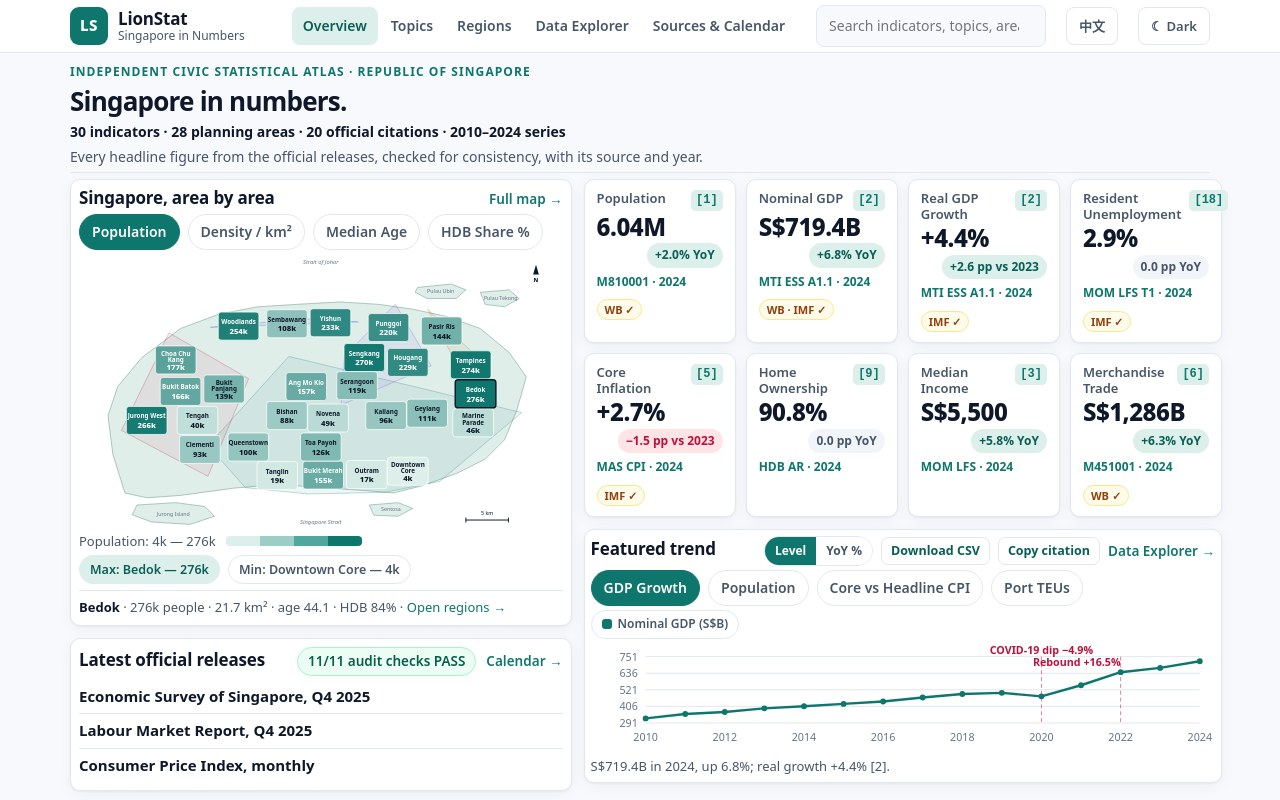
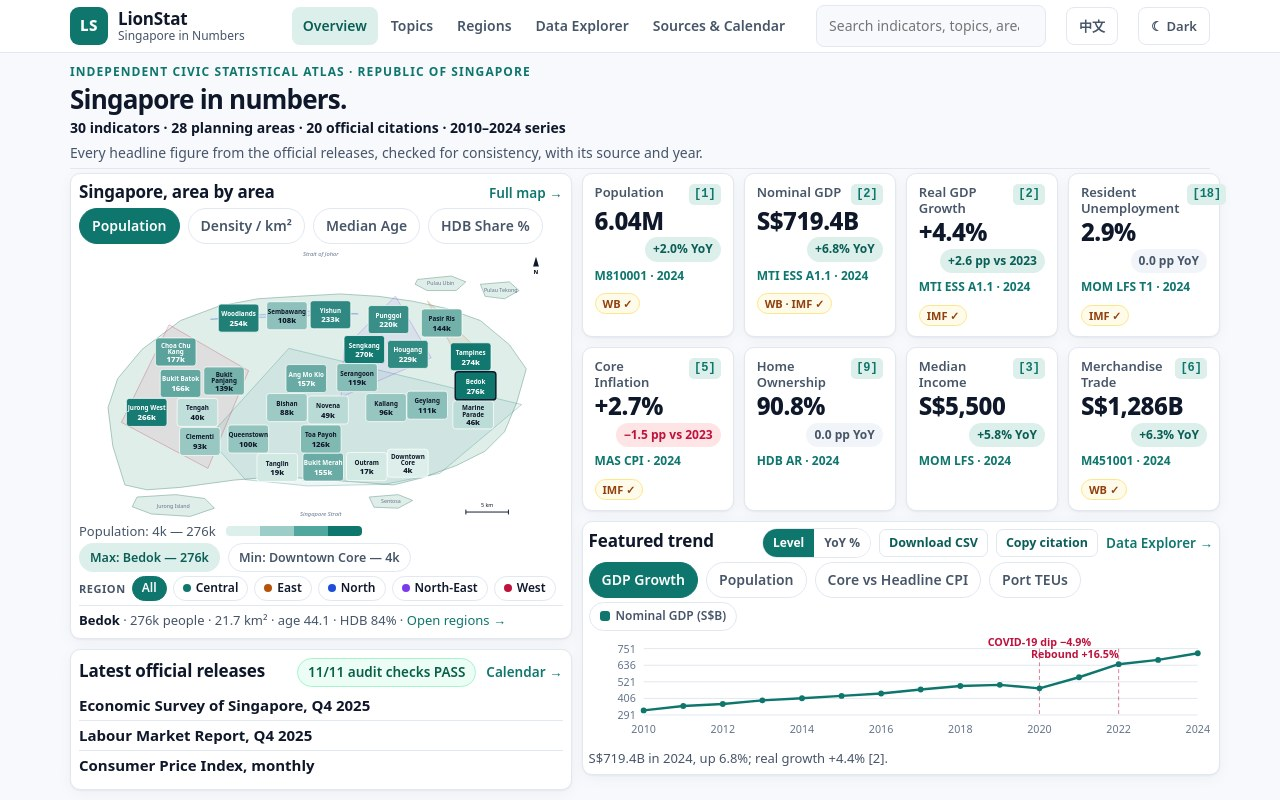
LionStat V6 — 5-region filter strip on cover map, mobile shot is the Overview, 2-col KPIs on phones

diff --git a/app/style.css b/app/style.css
@@ -252,7 +252,7 @@ button.legend-item:hover { border-color: var(--jade); }
 .release-list span { font-size: 13px; color: var(--muted); }
 
 /* ---------- Map ---------- */
-.map-controls { display: flex; flex-wrap: wrap; gap: 8px; margin-bottom: 6px; }
+.map-controls { display: flex; flex-wrap: wrap; gap: 8px; margin-bottom: 4px; }
 .metric-btn {
   border: 1px solid var(--border); background: var(--surface);
   border-radius: 999px; padding: 6px 12px; font-size: 14px; font-weight: 600; color: var(--muted);
@@ -266,7 +266,7 @@ button.legend-item:hover { border-color: var(--jade); }
 .map-tile-name { font-size: 13px; font-weight: 700; text-anchor: middle; font-family: inherit; }
 .map-tile-value { font-size: 16px; font-weight: 800; text-anchor: middle; font-family: inherit; }
 .map-tile-sub { font-size: 10px; text-anchor: middle; font-family: inherit; opacity: 0.75; }
-.map-legend { display: flex; align-items: center; gap: 10px; flex-wrap: wrap; margin-top: 4px; font-size: 13px; color: var(--muted); }
+.map-legend { display: flex; align-items: center; gap: 10px; flex-wrap: wrap; margin-top: 2px; font-size: 13px; color: var(--muted); }
 .map-ramp { display: inline-flex; }
 .map-ramp span { width: 34px; height: 10px; display: block; }
 .map-ramp span:first-child { border-radius: 4px 0 0 4px; }
@@ -478,14 +478,14 @@ html[data-theme="dark"] .region-zone { fill-opacity: 0.12; }
 .topic-demography .panel-note { margin-top: 10px; }
 
 /* ---------- V2: command centre, geographic map, dark theme ---------- */
-.masthead { padding: 0 0 4px; border-bottom: 1px solid var(--border); margin-bottom: 6px; }
-.masthead .kicker { margin-bottom: 4px; }
-.masthead h1 { font-size: 26px; letter-spacing: -0.03em; margin-bottom: 4px; }
+.masthead { padding: 0 0 4px; border-bottom: 1px solid var(--border); margin-bottom: 4px; }
+.masthead .kicker { margin-bottom: 2px; }
+.masthead h1 { font-size: 26px; letter-spacing: -0.03em; margin-bottom: 2px; }
 .masthead-facts { font-size: 14px; font-weight: 700; margin: 0 0 4px; }
 .masthead-sub { font-size: 14px; color: var(--muted); margin: 0; max-width: 780px; }
 
-.command-grid { display: grid; grid-template-columns: 44% 56%; gap: 12px; align-items: start; margin-bottom: 30px; }
-.cc-left, .cc-right { display: flex; flex-direction: column; gap: 12px; min-width: 0; }
+.command-grid { display: grid; grid-template-columns: 44% 56%; gap: 10px; align-items: start; margin-bottom: 30px; }
+.cc-left, .cc-right { display: flex; flex-direction: column; gap: 10px; min-width: 0; }
 .cc-map-panel, .cc-releases { padding: 8px; }
 .featured-panel { padding: 8px; }
 .cc-panel-head { display: flex; justify-content: space-between; align-items: baseline; gap: 10px; margin-bottom: 4px; }
@@ -499,10 +499,10 @@ html[data-theme="dark"] .region-zone { fill-opacity: 0.12; }
 .btn-mini:hover { border-color: var(--jade); color: var(--ink); }
 .detail-actions { display: flex; gap: 8px; flex-wrap: wrap; margin-top: 12px; }
 .copy-note { display: block; font-size: 12.5px; color: var(--muted); margin-top: 6px; min-height: 0; }
-.cc-selected { margin-top: 6px; border-top: 1px solid var(--border); padding-top: 6px; font-size: 13px; color: var(--muted); white-space: nowrap; overflow: hidden; text-overflow: ellipsis; }
+.cc-selected { margin-top: 4px; border-top: 1px solid var(--border); padding-top: 4px; font-size: 13px; color: var(--muted); white-space: nowrap; overflow: hidden; text-overflow: ellipsis; }
 .cc-selected strong { color: var(--ink); }
 .release-list.compact { font-size: 14px; }
-.release-list.compact li { padding: 5px 0; white-space: nowrap; overflow: hidden; text-overflow: ellipsis; }
+.release-list.compact li { padding: 3px 0; white-space: nowrap; overflow: hidden; text-overflow: ellipsis; }
 .cc-releases .release-list { margin-bottom: 0; }
 .release-list.compact strong { display: inline; }
 .release-list.compact span { display: none; }
@@ -535,13 +535,22 @@ html[data-theme="dark"] .region-zone { fill-opacity: 0.12; }
 .map-scale-label { font-size: 11px; fill: var(--ink); font-family: inherit; }
 .map-compass polygon { fill: var(--ink); }
 .map-scale line { stroke: var(--ink); }
-.map-hilo { display: flex; gap: 8px; flex-wrap: wrap; margin-top: 4px; }
+.map-hilo { display: flex; gap: 8px; flex-wrap: wrap; margin-top: 2px; }
 .hilo-chip { font-size: 12.5px; font-weight: 600; border-radius: 999px; padding: 4px 10px; border: 1px solid var(--border); color: var(--muted); }
 .hilo-high { color: var(--jade-dark); background: var(--jade-pale); border-color: transparent; }
 
 /* The overview map hides the region chips (they are on #/regions) so the
    command centre fits 1280×800. */
 .cc-map-panel .region-chips { display: none; }
+/* V6: 2-level Region -> Area filter strip on the cover map. Compact pills
+   (colour dot + short name); the active pill mirrors .metric-btn.active. */
+.region-filter { display: flex; flex-wrap: wrap; align-items: center; gap: 6px; margin-top: 4px; }
+.region-filter-label { font-size: 11px; font-weight: 700; text-transform: uppercase; letter-spacing: 0.05em; color: var(--muted); }
+.region-pill-btn { display: inline-flex; align-items: center; gap: 5px; padding: 2px 9px; font-size: 12px; font-weight: 600; color: var(--ink); background: var(--surface-muted); border: 1px solid var(--border); border-radius: 999px; cursor: pointer; white-space: nowrap; }
+.region-pill-btn:hover { border-color: var(--jade); }
+.region-pill-btn.active { background: var(--jade); border-color: var(--jade); color: #FFFFFF; }
+.region-pill-btn.active .region-dot { outline: 1px solid #FFFFFF; }
+.region-pill-btn .region-dot { width: 8px; height: 8px; }
 
 /* Theme toggle in the header. */
 .theme-btn { border: 1px solid var(--border); background: var(--surface); border-radius: 8px; padding: 8px 12px; font-weight: 600; font-size: 13px; color: var(--muted); flex: none; white-space: nowrap; }
@@ -583,6 +592,13 @@ html[data-theme="dark"] .landmass { fill: #12312d; stroke: #2dd4bf; }
   .regions-grid { grid-template-columns: minmax(0, 1fr); }
   .topic-demography-grid { grid-template-columns: minmax(0, 1fr); }
   .command-grid { grid-template-columns: minmax(0, 1fr); }
+  /* V6: flatten the left/right wrappers so the four panels can be
+     re-ordered on narrow screens (map, KPIs, releases, featured). */
+  .cc-left, .cc-right { display: contents; }
+  .cc-map-panel { order: 1; }
+  .kpi-grid-compact { order: 2; }
+  .cc-releases { order: 3; }
+  .featured-panel { order: 4; }
   .area-detail { position: static; }
   .split { grid-template-columns: 1fr; }
   .search-box input { width: 180px; }
@@ -616,6 +632,18 @@ html[data-theme="dark"] .landmass { fill: #12312d; stroke: #2dd4bf; }
   .menu-btn { padding: 6px 10px; font-size: 13px; }
   .hero-blurb { font-size: 16px; }
   .kpi-grid, .topic-grid { grid-template-columns: 1fr; }
+  /* V6: the compact overview grid keeps 2 columns on phones (this rule
+     re-asserts the 2-col layout after the 1fr rule above). */
+  .kpi-grid-compact { grid-template-columns: repeat(2, minmax(0, 1fr)); }
+  .kpi-grid-compact .kpi-value { font-size: 26px; }
+  .masthead-sub { display: none; }
+  .region-filter-label { display: none; }
+  .map-controls .metric-btn { padding: 4px 8px; font-size: 12px; }
+  /* V6: on phones the header search drops to a second row and eats ~56px;
+     hide it (navigation stays in the Menu; desktop search is untouched) so
+     the map + first KPI row reach the fold. */
+  .search-box { display: none; }
+  .map-controls { gap: 6px; }
   .kpi-value { font-size: 30px; }
   .section-head h2 { font-size: 22px; }
   .compare-row { grid-template-columns: 1fr; gap: 4px; }

diff --git a/app/charts.js b/app/charts.js
@@ -236,6 +236,11 @@ export function renderRegionMap(container, areas, regions, selectedId, metric, o
     : metric === 'density' ? 'Density / km²'
     : metric === 'medianAge' ? 'Median age'
     : 'HDB share %';
+  // V6: options.region filters the map to one planning region — tiles and
+  // zone hulls outside it dim, and Max/Min read within the region (the
+  // colour ramp stays global so colours stay comparable across regions).
+  const regionFilter = options.region || null;
+  const pool = regionFilter ? areas.filter((a) => a.region === regionFilter) : areas;
   const values = areas.map(metricOf);
   const lo = Math.min(...values);
   const hi = Math.max(...values);
@@ -303,7 +308,8 @@ export function renderRegionMap(container, areas, regions, selectedId, metric, o
       const d = Math.hypot(dx, dy) || 1;
       return `${(cx + dx * 1.25 + (dx / d) * 34).toFixed(1)},${(cy + dy * 1.25 + (dy / d) * 34).toFixed(1)}`;
     }).join(' ');
-    zones += `<polygon points="${expanded}" class="region-zone" style="fill:${r.color};stroke:${r.color}"><title>${esc(r.name)}</title></polygon>`;
+    const zoneDim = regionFilter && r.id !== regionFilter;
+    zones += `<polygon points="${expanded}" class="region-zone" style="fill:${r.color};stroke:${r.color}" opacity="${zoneDim ? 0.15 : 1}"><title>${esc(r.name)}</title></polygon>`;
   });
 
   let tiles = '';
@@ -317,7 +323,8 @@ export function renderRegionMap(container, areas, regions, selectedId, metric, o
     const nameText = lines
       .map((ln, i) => `<text x="${a.x}" y="${y + (two ? 20 + i * 13 : 25)}" class="map-tile-name" fill="${textOn(t)}">${esc(ln)}</text>`)
       .join('');
-    tiles += `<g class="map-tile${sel ? ' selected' : ''}" data-area="${esc(a.id)}" tabindex="0" role="button" aria-label="${esc(a.name)}: ${esc(metricLabel)} ${esc(valText(a))}">
+    const dimmed = regionFilter && a.region !== regionFilter;
+    tiles += `<g class="map-tile${sel ? ' selected' : ''}" data-area="${esc(a.id)}" tabindex="0" role="button" aria-label="${esc(a.name)}: ${esc(metricLabel)} ${esc(valText(a))}" opacity="${dimmed ? 0.22 : 1}">
       <rect x="${x}" y="${y}" width="${TILE_W}" height="${TILE_H}" rx="6" fill="${ramp(t)}" stroke="${sel ? '#0F172A' : '#FFFFFF'}" stroke-width="${sel ? 3 : 1.5}"/>
       ${nameText}
       <text x="${a.x}" y="${y + (two ? 49 : 45)}" class="map-tile-value" fill="${textOn(t)}">${esc(valText(a))}</text>
@@ -326,8 +333,8 @@ export function renderRegionMap(container, areas, regions, selectedId, metric, o
   const regionChips = regions
     .map((r) => `<span class="region-chip"><span class="legend-swatch" style="background:${r.color}"></span>${esc(r.name)}</span>`)
     .join('');
-  const highest = areas.reduce((b, a) => (metricOf(a) > metricOf(b) ? a : b), areas[0]);
-  const lowest = areas.reduce((b, a) => (metricOf(a) < metricOf(b) ? a : b), areas[0]);
+  const highest = pool.reduce((b, a) => (metricOf(a) > metricOf(b) ? a : b), pool[0]);
+  const lowest = pool.reduce((b, a) => (metricOf(a) < metricOf(b) ? a : b), pool[0]);
   container.innerHTML = `
     <div class="chart-wrap map-wrap"><svg viewBox="0 30 1000 560" role="img" aria-label="Geographic map of Singapore planning areas">${coastline}${zones}${tiles}</svg></div>
     <div class="map-legend"><span class="map-legend-label">${esc(metricLabel)}: ${esc(metric === 'population' ? `${(lo / 1000).toFixed(0)}k` : String(lo))} — ${esc(metric === 'population' ? `${(hi / 1000).toFixed(0)}k` : String(hi))}</span><span class="map-ramp"><span style="background:#DCEFEA"></span><span style="background:#9CCDC6"></span><span style="background:#4FA79E"></span><span style="background:#0F766E"></span></span></div>

diff --git a/app/views/home.js b/app/views/home.js
@@ -86,6 +86,15 @@ export function render() {
           ${MAP_METRICS.map((m, i) => `<button type="button" class="metric-btn${i === 0 ? ' active' : ''}" data-metric="${m.id}">${t(m.key)}</button>`).join('')}
         </div>
         <div id="cc-map"></div>
+        <div class="region-filter" role="group" aria-label="Filter map by region">
+          <span class="region-filter-label">${t('ov.map.region')}</span>
+          <button type="button" class="region-pill-btn active" data-region="">${t('ov.map.all')}</button>
+          ${REGIONS.map((r) => {
+            const areas = AREAS.filter((a) => a.region === r.id);
+            const pop = areas.reduce((sum, a) => sum + a.population, 0);
+            return `<button type="button" class="region-pill-btn" data-region="${r.id}" title="${r.name} — ${areas.length} areas · ${(pop / 1e6).toFixed(2)}M people"><span class="region-dot" style="background:${r.color}"></span>${r.name.replace(' Region', '')}</button>`;
+          }).join('')}
+        </div>
         <div id="cc-selected" class="cc-selected" aria-live="polite"></div>
       </section>
       <section class="panel cc-releases" aria-label="Latest official releases">
@@ -132,6 +141,7 @@ export function render() {
 export function mount() {
   // Interactive map in the left column.
   let mapMetric = 'population';
+  let mapRegion = null;
   let selectedArea = window.__lionstatSelectedArea || 'bedok';
   window.__lionstatSelectedArea = undefined;
   const mapHost = document.getElementById('cc-map');
@@ -145,7 +155,7 @@ export function mount() {
       selectedArea = id;
       drawSelected();
       drawMap();
-    });
+    }, { region: mapRegion });
   };
   drawSelected();
   drawMap();
@@ -154,6 +164,18 @@ export function mount() {
       document.querySelectorAll('#cc-map-controls .metric-btn').forEach((b) => b.classList.remove('active'));
       btn.classList.add('active');
       mapMetric = btn.dataset.metric;
+      drawSelected();
+      drawMap();
+    });
+  });
+  document.querySelectorAll('.region-pill-btn').forEach((btn) => {
+    btn.addEventListener('click', () => {
+      document.querySelectorAll('.region-pill-btn').forEach((b) => b.classList.remove('active'));
+      btn.classList.add('active');
+      mapRegion = btn.dataset.region || null;
+      if (mapRegion) {
+        selectedArea = [...AREAS].filter((a) => a.region === mapRegion).sort((x, y) => y.population - x.population)[0].id;
+      }
       drawSelected();
       drawMap();
     });

diff --git a/app/i18n.js b/app/i18n.js
@@ -38,6 +38,8 @@ const S = {
   'masthead.sub': ['Every headline figure from the official releases, checked for consistency, with its source and year.', '每项主要数据均来自官方发布，经过一致性核查，并注明来源与年份。'],
   'ov.map.title': ['Singapore, area by area', '新加坡各区一览'],
   'ov.map.full': ['Full map →', '完整地图 →'],
+  'ov.map.region': ['Region', '地区'],
+  'ov.map.all': ['All', '全部'],
   'ov.releases.title': ['Latest official releases', '最新官方发布'],
   'ov.audit': ['audit checks PASS', '核查通过'],
   'ov.releases.cal': ['Calendar →', '日历 →'],
